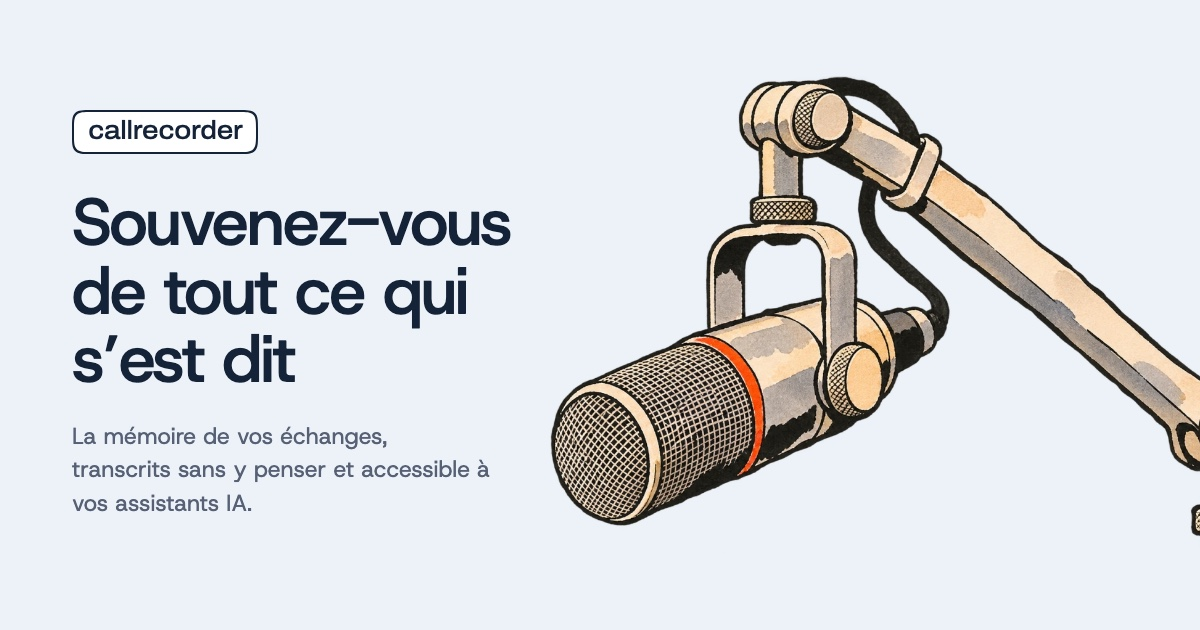
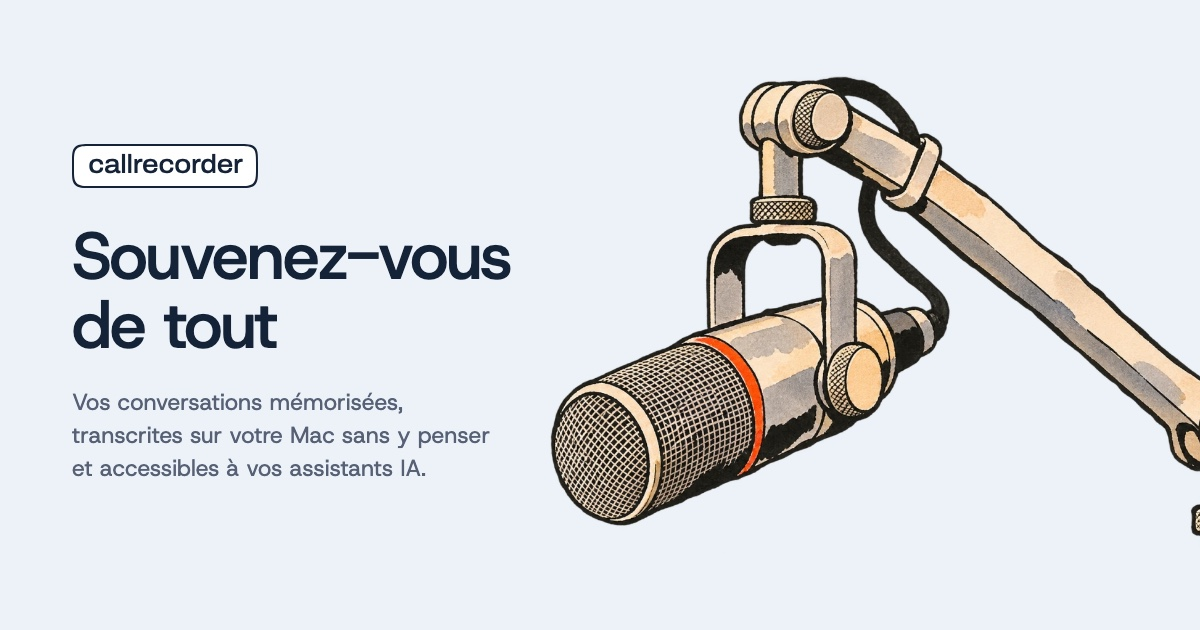
Accueil : le titre redevient « Souvenez-vous de tout », comme choisi le 3 novembre

Changed region(s): [[0.0617, 0.1508, 0.4317, 0.754], [0.0617, 0.7841, 0.2158, 0.8143]]

diff --git a/index.html b/index.html
@@ -9,10 +9,10 @@
 <meta property="og:type" content="website">
 <meta property="og:locale" content="fr_FR">
 <meta property="og:site_name" content="Callrecorder">
-<meta property="og:title" content="Callrecorder · Souvenez-vous de tout ce qui s'est dit">
+<meta property="og:title" content="Callrecorder · Souvenez-vous de tout">
 <meta property="og:description" content="Callrecorder se souvient de vos appels Zoom, Teams, Google Meet, FaceTime et WhatsApp, de vos réunions et de vos notes vocales : une mémoire que vos assistants IA consultent.">
 <meta property="og:url" content="https://gildasfremont.github.io/callrecorder/">
-<meta property="og:image" content="https://gildasfremont.github.io/callrecorder/img/partage/accueil.jpg?v=7">
+<meta property="og:image" content="https://gildasfremont.github.io/callrecorder/img/partage/accueil.jpg?v=8">
 <meta property="og:image:width" content="1200">
 <meta property="og:image:height" content="630">
 <meta name="twitter:card" content="summary_large_image">
@@ -34,7 +34,7 @@
     </div>
   </nav>
   <div class="about">
-    <h1>Souvenez-vous de tout ce qui s'est dit</h1>
+    <h1>Souvenez-vous de tout</h1>
     <p class="lead">Vos conversations mémorisées, transcrites sur votre Mac sans y penser et accessibles à vos assistants IA.</p>
     <!-- Un micro de radio tendu vers le titre ; son mât descend derrière la fenêtre Conversations. -->
     <img class="app-mic" src="img/micro-mat.webp?v=4" width="724" height="2172" alt="" aria-hidden="true">
